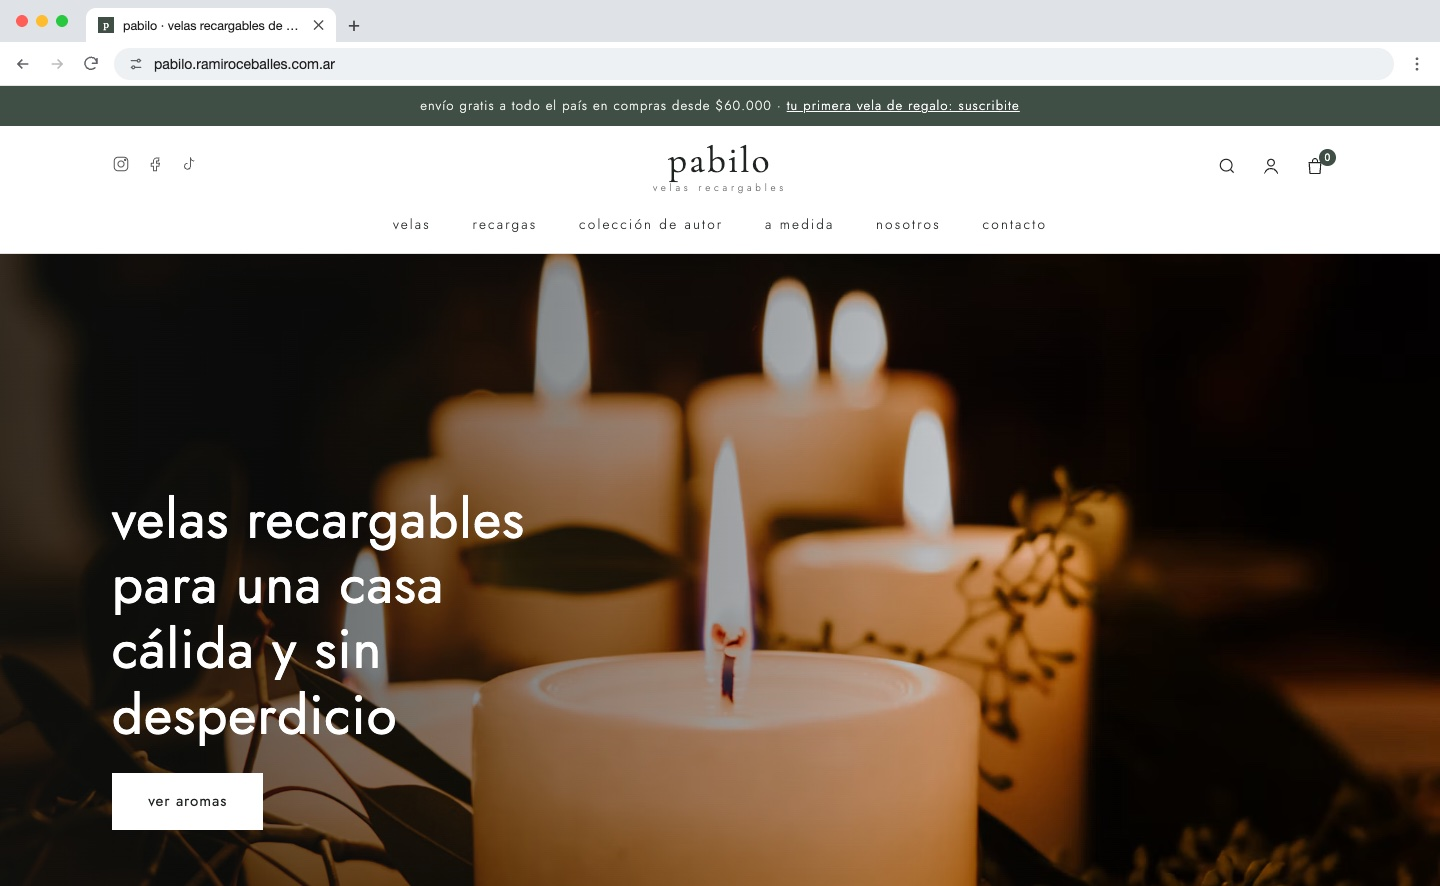
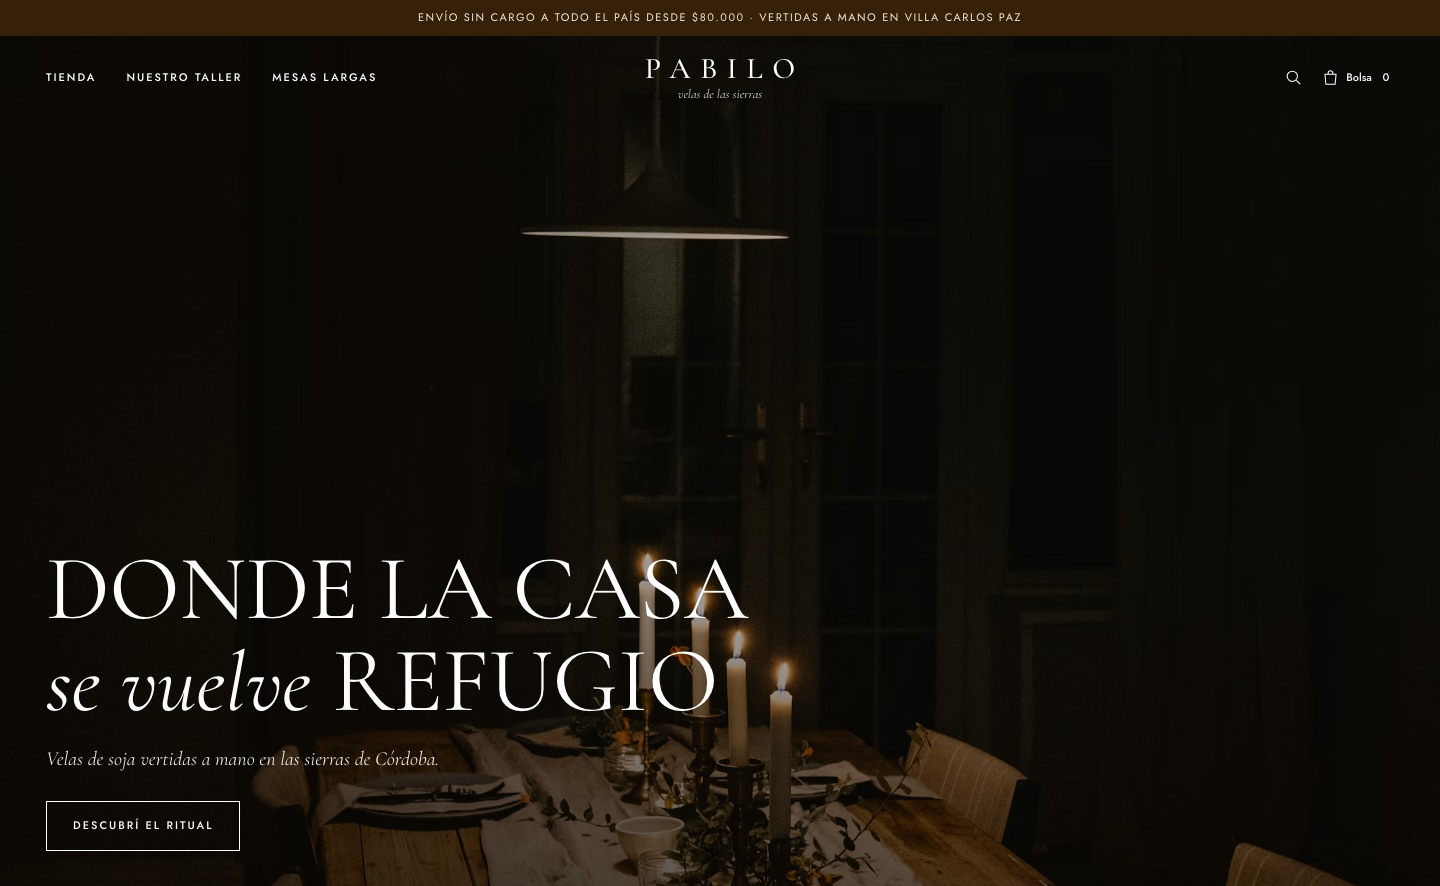
Portfolio: capturas nuevas de Pabilo, Molle y Llavero, y nuevo orden
- Capturas actualizadas de los sitios retocados (Pabilo y Molle) y de
  Llavero, que pasó de landing de software a inmobiliaria.
- Llavero: tarjeta, meta y alt de inmobiliaria en Villa Carlos Paz.
- Pabilo: descripción según el sitio actual (velas de soja y difusores).
- Orden de Webs: Pabilo, Molle, La Pirca, Llavero, Diván y Borne, con
  los sitios más vistosos primero.

diff --git a/index.html b/index.html
@@ -179,43 +179,15 @@
         <div class="portfolio-grid">
         <article class="portfolio-card">
           <div class="portfolio-thumb">
-            <img src="img/llavero.jpg" alt="Sitio de concepto Llavero: landing de un software de recepción para hoteles" loading="lazy">
-            <span class="concept-tag">Concepto</span>
-          </div>
-          <div>
-            <h4>Llavero</h4>
-            <p class="portfolio-meta">Software para hoteles · 2026</p>
-            <p>Landing de producto para un sistema de recepción hotelera.</p>
-            <div class="portfolio-links">
-              <a href="https://llavero.ramiroceballes.com.ar/" target="_blank" rel="noopener">Ver sitio</a>
-            </div>
-          </div>
-        </article>
-        <article class="portfolio-card">
-          <div class="portfolio-thumb">
-            <img src="img/pabilo.jpg" alt="Sitio de concepto Pabilo: tienda online de velas recargables" loading="lazy">
+            <img src="img/pabilo.jpg" alt="Sitio de concepto Pabilo: tienda online de velas de soja, con una mesa iluminada con velas" loading="lazy">
             <span class="concept-tag">Concepto</span>
           </div>
           <div>
             <h4>Pabilo</h4>
             <p class="portfolio-meta">Tienda online · 2026</p>
-            <p>E-commerce de velas recargables de cera de soja.</p>
+            <p>Tienda online de velas de soja y difusores vertidos a mano en las sierras de Córdoba.</p>
             <div class="portfolio-links">
               <a href="https://pabilo.ramiroceballes.com.ar/" target="_blank" rel="noopener">Ver sitio</a>
-            </div>
-          </div>
-        </article>
-        <article class="portfolio-card">
-          <div class="portfolio-thumb">
-            <img src="img/borne.jpg" alt="Sitio de concepto Borne: materiales eléctricos e instalaciones" loading="lazy">
-            <span class="concept-tag">Concepto</span>
-          </div>
-          <div>
-            <h4>Borne</h4>
-            <p class="portfolio-meta">Sitio comercial · 2026</p>
-            <p>Materiales eléctricos e instalaciones en Villa Carlos Paz.</p>
-            <div class="portfolio-links">
-              <a href="https://borne.ramiroceballes.com.ar/" target="_blank" rel="noopener">Ver sitio</a>
             </div>
           </div>
         </article>
@@ -249,6 +221,20 @@
         </article>
         <article class="portfolio-card">
           <div class="portfolio-thumb">
+            <img src="img/llavero.jpg" alt="Sitio de concepto Llavero: inmobiliaria en Villa Carlos Paz, con una casa frente al lago destacada" loading="lazy">
+            <span class="concept-tag">Concepto</span>
+          </div>
+          <div>
+            <h4>Llavero</h4>
+            <p class="portfolio-meta">Inmobiliaria · 2026</p>
+            <p>Inmobiliaria en Villa Carlos Paz: alquiler temporario con buscador por fechas, venta y alquiler anual.</p>
+            <div class="portfolio-links">
+              <a href="https://llavero.ramiroceballes.com.ar/" target="_blank" rel="noopener">Ver sitio</a>
+            </div>
+          </div>
+        </article>
+        <article class="portfolio-card">
+          <div class="portfolio-thumb">
             <img src="img/divan.jpg" alt="Sitio de concepto Diván: consultorio de psicología" loading="lazy">
             <span class="concept-tag">Concepto</span>
           </div>
@@ -258,6 +244,20 @@
             <p>Sitio para una psicóloga clínica: espacios, honorarios y contacto.</p>
             <div class="portfolio-links">
               <a href="https://divan.ramiroceballes.com.ar/" target="_blank" rel="noopener">Ver sitio</a>
+            </div>
+          </div>
+        </article>
+        <article class="portfolio-card">
+          <div class="portfolio-thumb">
+            <img src="img/borne.jpg" alt="Sitio de concepto Borne: materiales eléctricos e instalaciones" loading="lazy">
+            <span class="concept-tag">Concepto</span>
+          </div>
+          <div>
+            <h4>Borne</h4>
+            <p class="portfolio-meta">Sitio comercial · 2026</p>
+            <p>Materiales eléctricos e instalaciones en Villa Carlos Paz.</p>
+            <div class="portfolio-links">
+              <a href="https://borne.ramiroceballes.com.ar/" target="_blank" rel="noopener">Ver sitio</a>
             </div>
           </div>
         </article>
